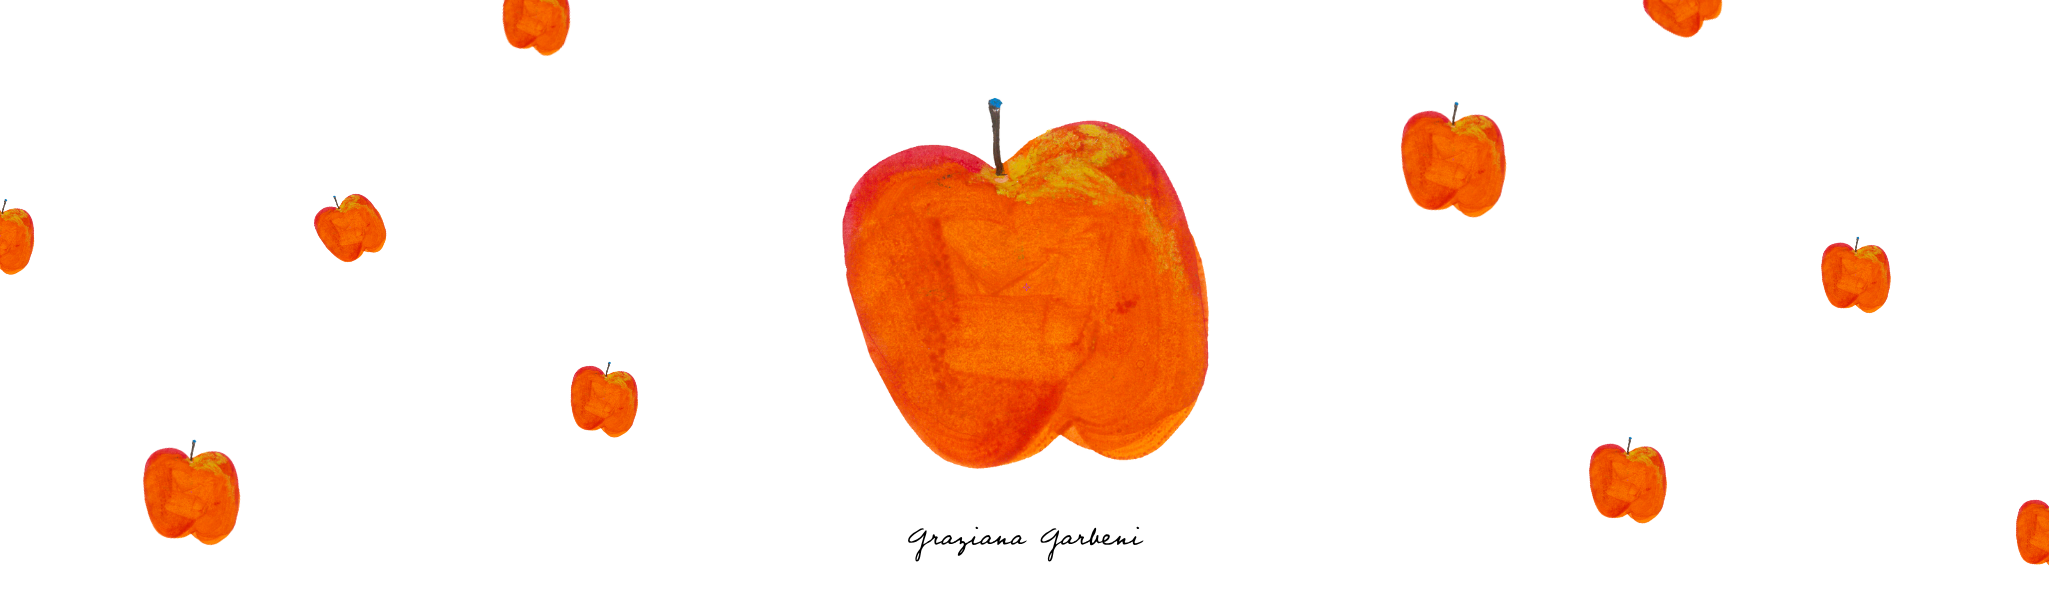
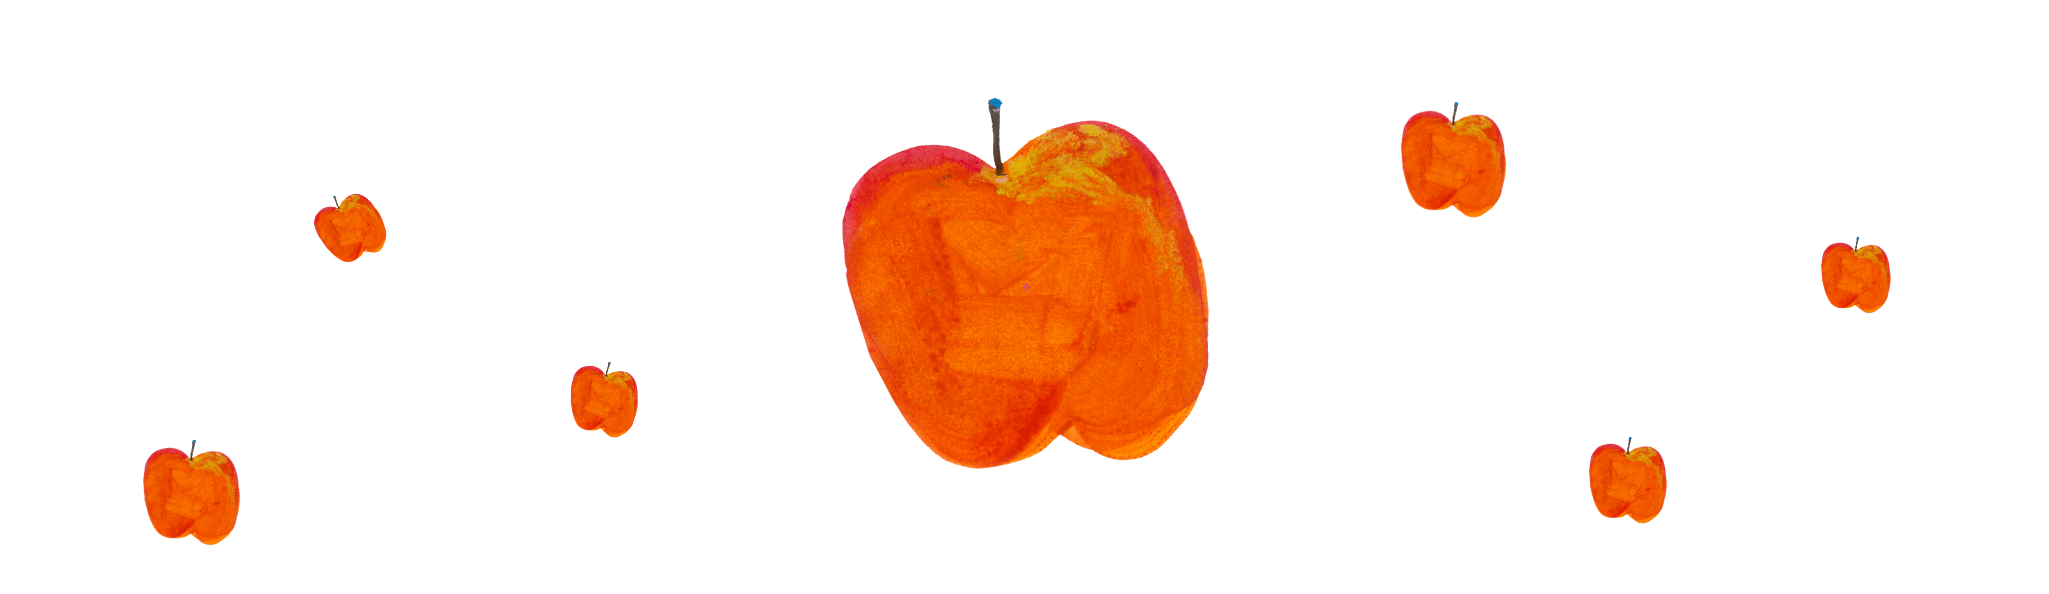
update

diff --git a/_scripts/build.js b/_scripts/build.js
@@ -37,11 +37,11 @@ data.forEach(item => {
 // Costruisci l'HTML completo per header e nav, che verrà riutilizzato in tutti i template
 const headerNavHtml = `
     <header class="main-header">
-        <img src="./immagini/static/hp_trasp.png" alt="GG">
+        <img src="./immagini/static/header.png" alt="GrazianaGarbeni">
     </header>
     <nav class="main-nav">
         <a href="/" class="nav-logo">
-            <img src="https://mr.bingo/wp-content/themes/bingo/images/bingo_logo.png" alt="Logo piccolo">
+            <img src="./immagini/static/logo.png" alt="GrazianaGarbeni">
         </a>
         <div class="nav-menu">
             <ul>${menuHtml}</ul>

diff --git a/css/header.css b/css/header.css
@@ -1,6 +1,7 @@
 /* Header principale con il logo grande */
 .main-header {
     padding: 20px 0;
+    display: none;
     justify-content: center;
 }
 
